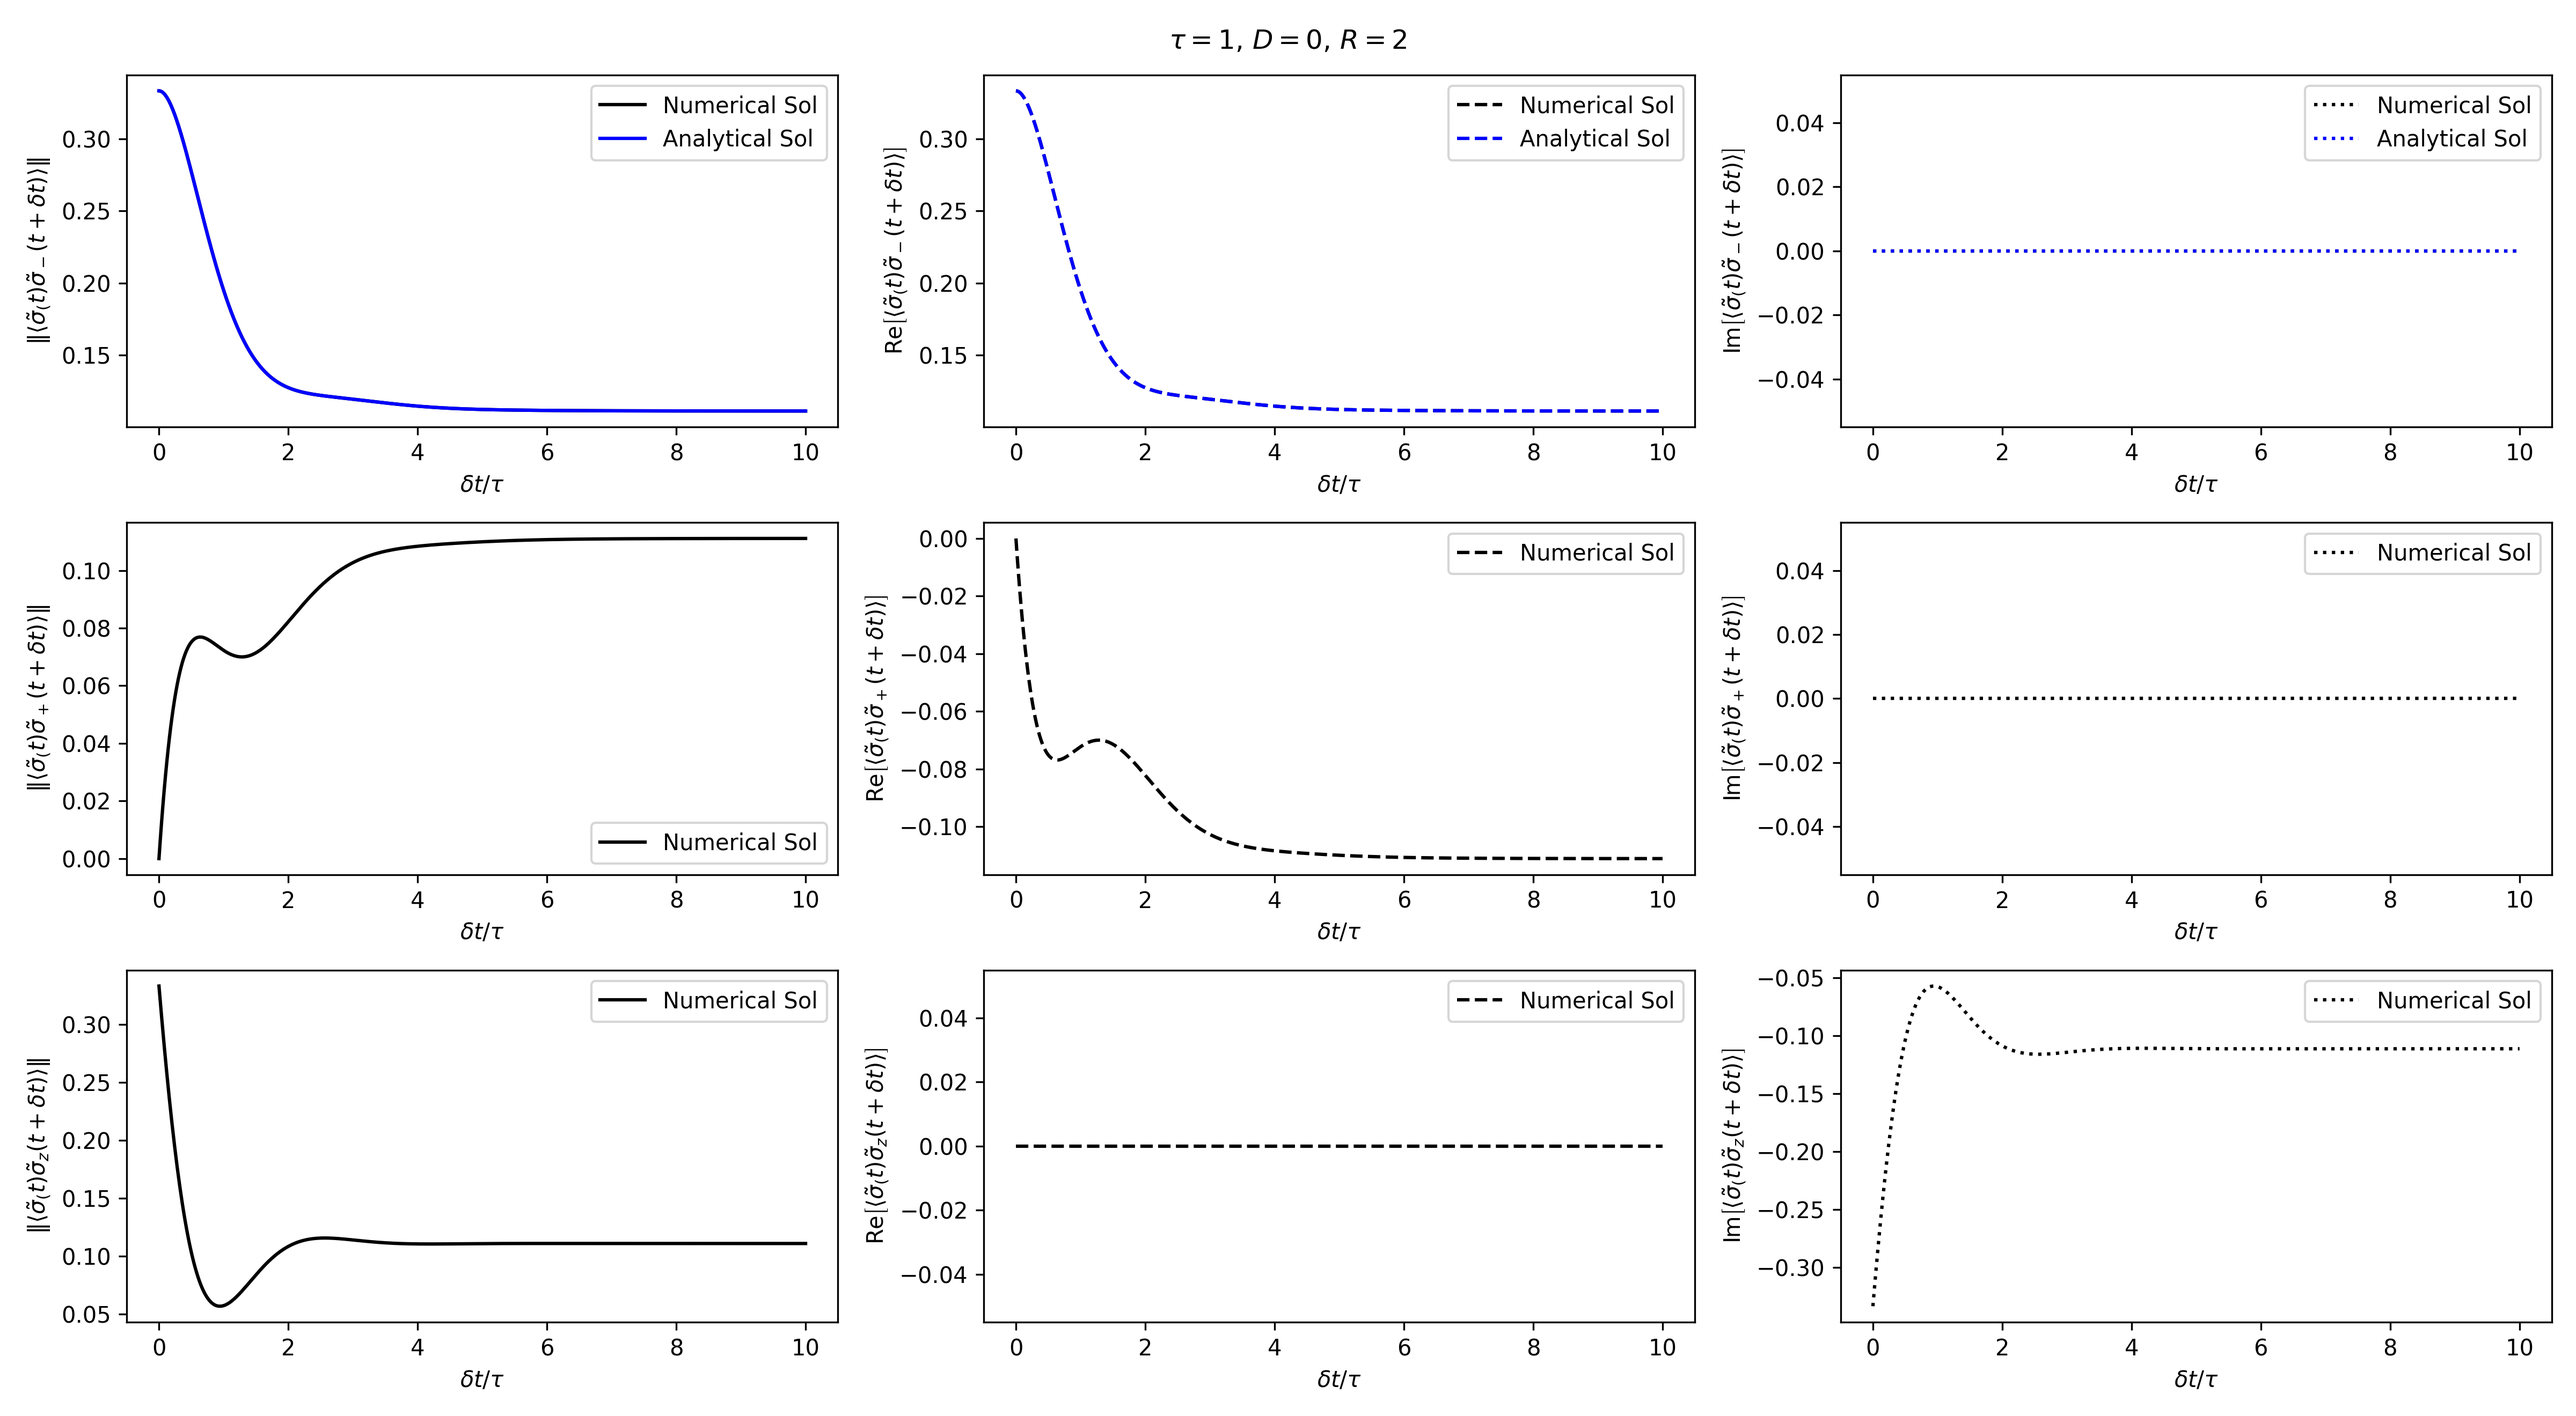
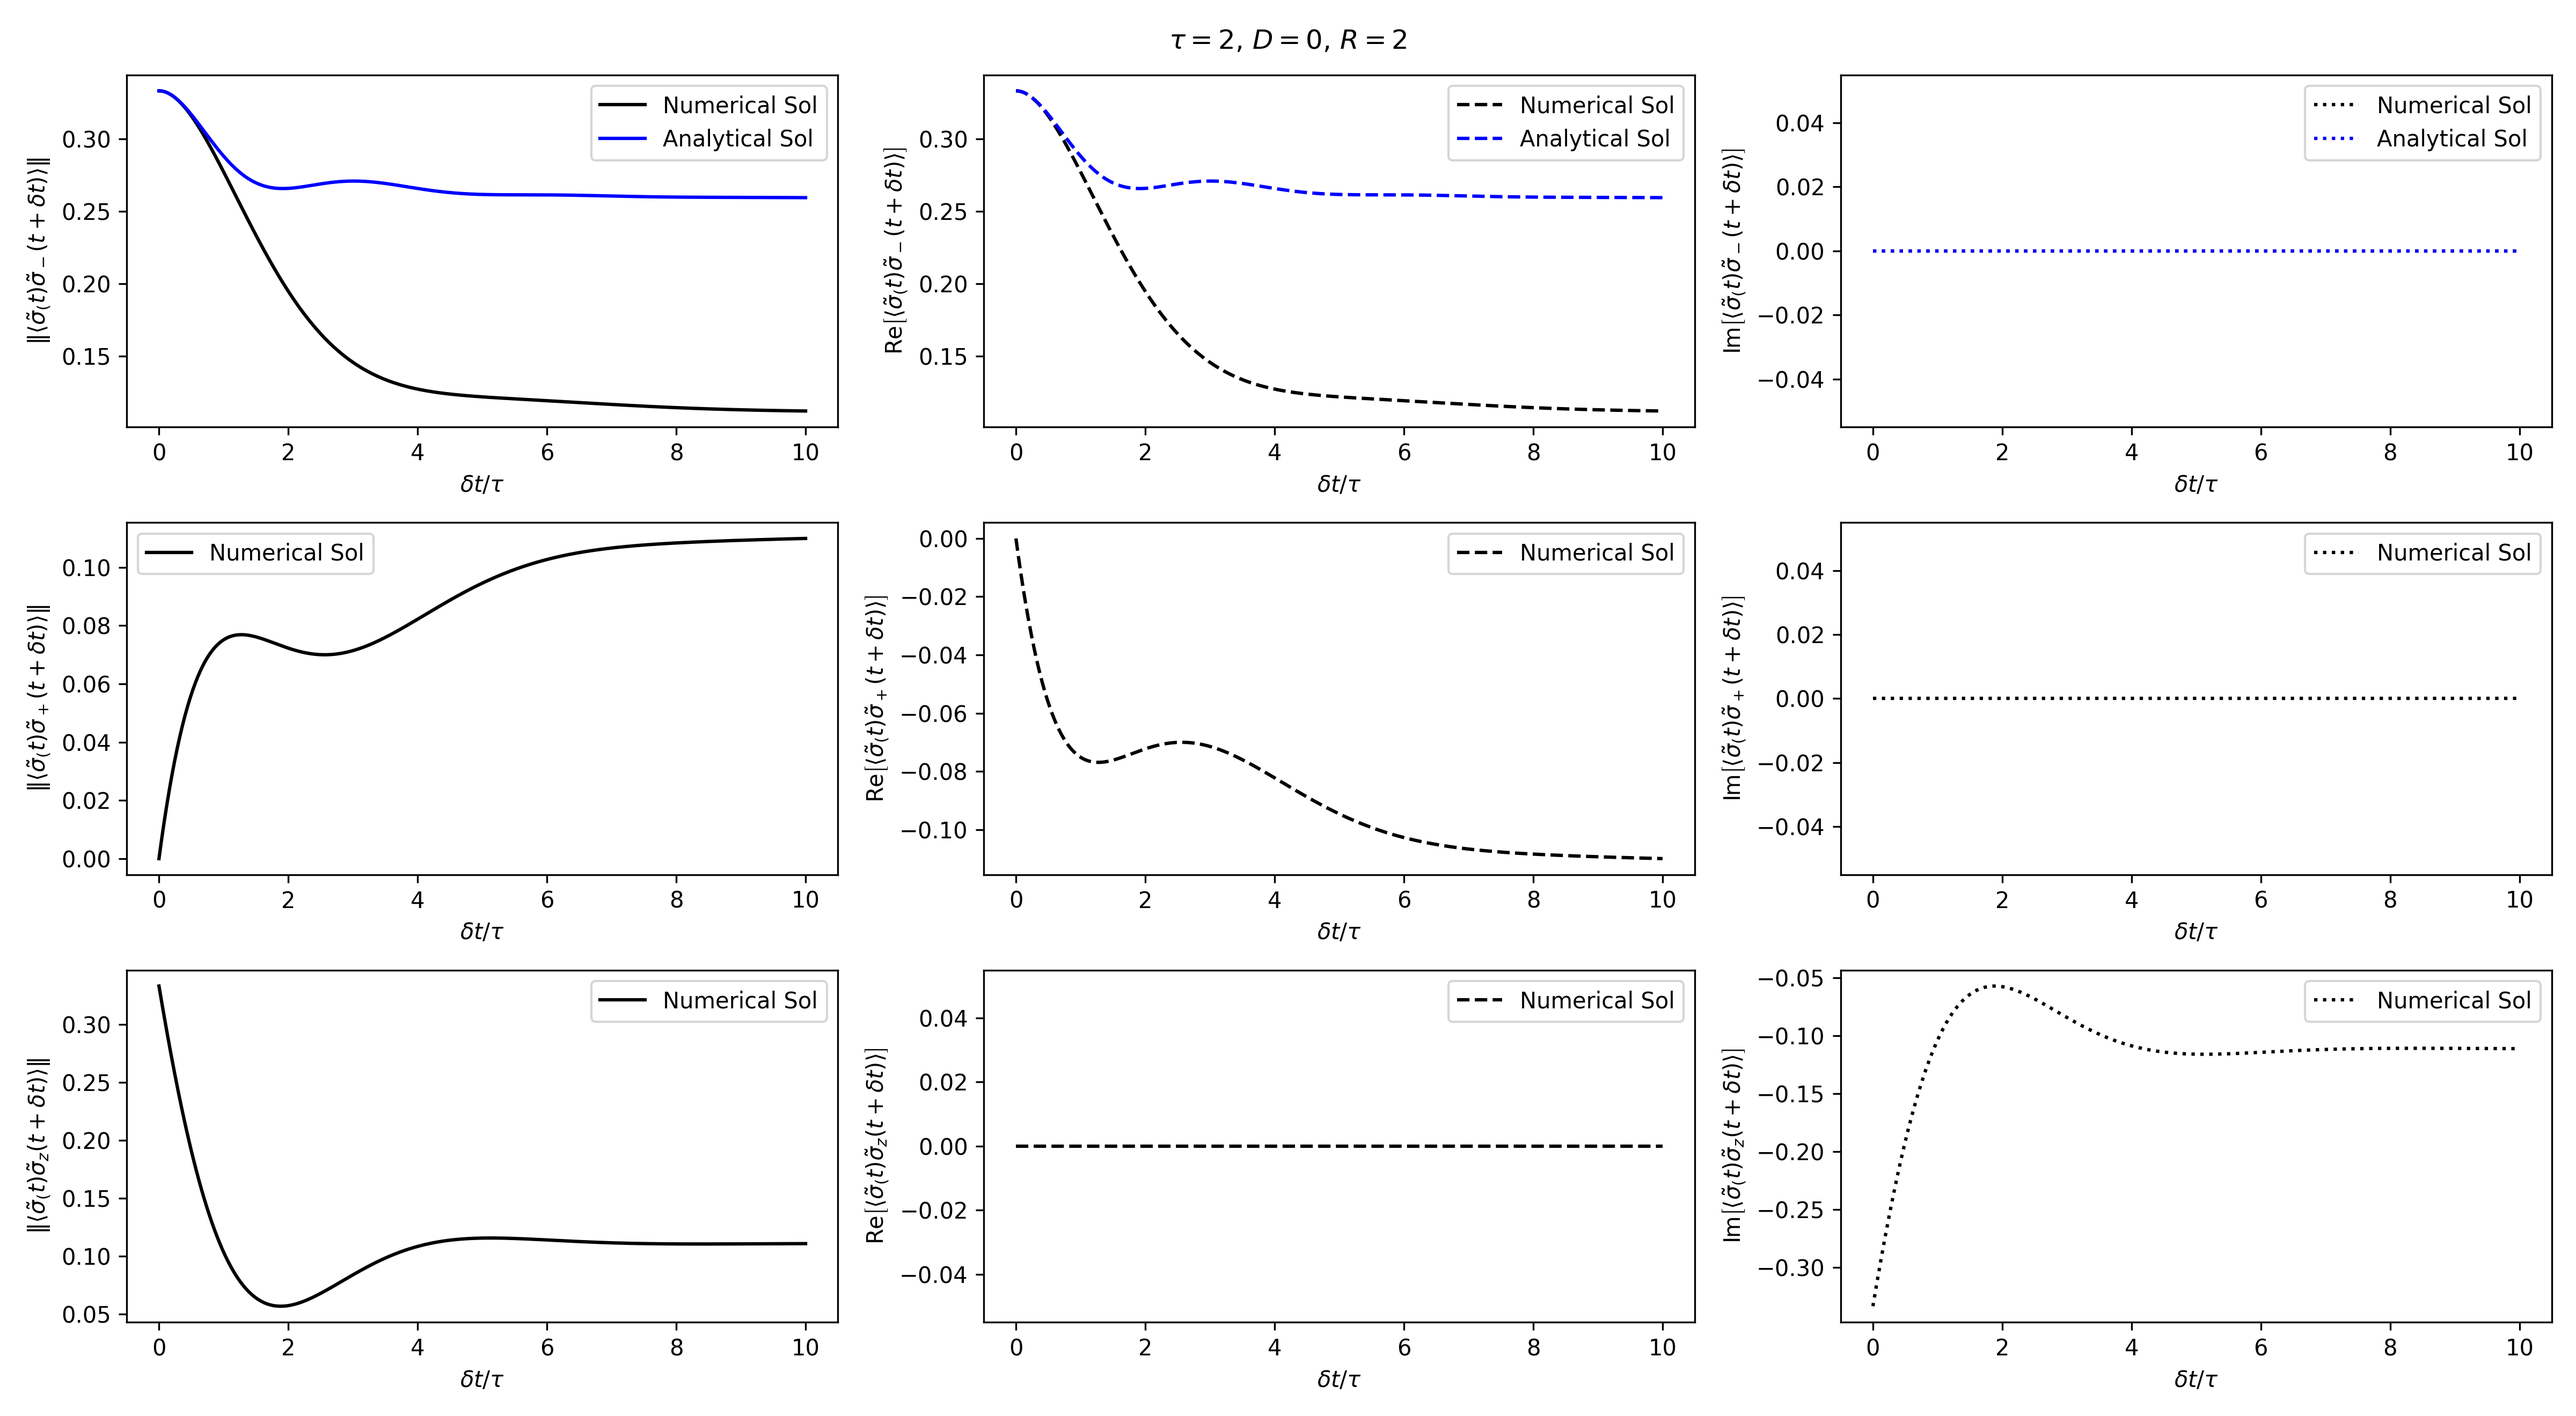
Tested out changing the value of tau.

diff --git a/integrate.py b/integrate.py
@@ -111,9 +111,9 @@ for n in np.arange(2):
     if n == 0:
         # This is a vector containing the equations (B1-B3), which are the analytical solutions for the
         # single-time correlation functions.
-        analyticalLaplaceSym = sympy.Matrix([-0.5j * rabiFreqSym / tau * (s + 2 / tauSym) * (s + 1 / tauSym - 1j * detuningFreqSym / tau) / (s * P),
-                                            0.5j * rabiFreqSym / tau * (s + 2 / tauSym) * (s + 1 / tauSym + 1j * detuningFreqSym / tau) / (s * P),
-                                            -(s + 2 / tauSym) * ( (s + 1 / tauSym)**2 + detuningFreqSym**2 / tau**2) / (s * P)])
+        analyticalLaplaceSym = sympy.Matrix([-0.5j * rabiFreqSym / tauSym * (s + 2 / tauSym) * (s + 1 / tauSym - 1j * detuningFreqSym / tauSym) / (s * P),
+                                            0.5j * rabiFreqSym / tau * (s + 2 / tauSym) * (s + 1 / tauSym + 1j * detuningFreqSym / tauSym) / (s * P),
+                                            -(s + 2 / tauSym) * ( (s + 1 / tauSym)**2 + detuningFreqSym**2 / tauSym**2) / (s * P)])
     elif n == 1:
         # This is a 'vector' containing just the analytical solution for the first component of the
         # double-time correlation functions. We have chosen at this time not to plot the remaining analytical
